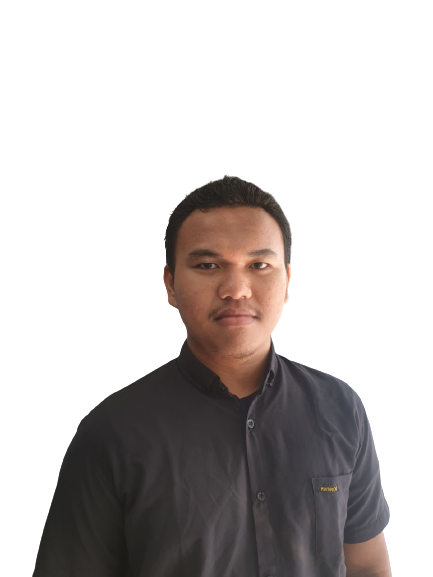
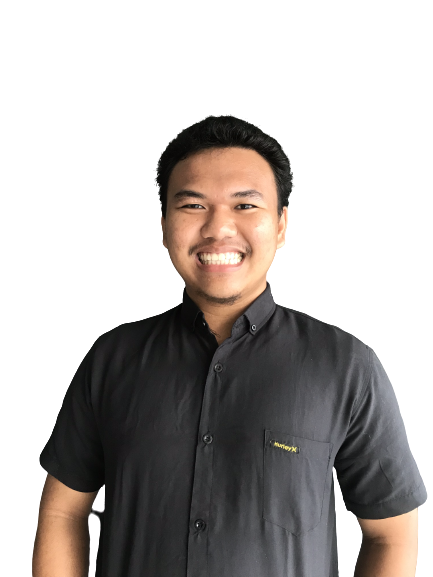
change picture, change spacing between element

diff --git a/src/components/about/index.jsx b/src/components/about/index.jsx
@@ -24,13 +24,13 @@ const About = () => {
           <img
             src={Img.profile}
             alt="Ibnu-Alinsani"
-            className="rounded-t-full absolute -top-24 right-16 shadow-inner  rounded-b-full"
+            className="absolute right-16 shadow-inner rounded-full backdrop-blur-sm aspect-square object-cover"
             width={"70%"}
             height={"50%"}
           />
         </div>
-        <div className="text-center mt-12">
-          <h1 className="text-white bg-red-600 mt-5 font-samurai text-3xl text-center inline px-4 py-2 rounded-md">
+        <div className="text-center mt-4">
+          <h1 className="text-white bg-red-600 mt-5 font-bold font-samurai text-3xl text-center inline px-4 py-2 rounded-md">
             Hello World!
           </h1>
           <h1 className="font-japan inline-block font-bold text-white text-3xl mt-4">
@@ -41,7 +41,7 @@ const About = () => {
             and i'm <span className="text-red-600">web developer</span>
           </span>
         </div>
-        <ul className="flex items-center justify-center gap-4 mt-12">
+        <ul className="flex items-center justify-center gap-4 mt-8">
           <li>
             <a href="https://github.com/Ibnu-Alinsani">
               <img
